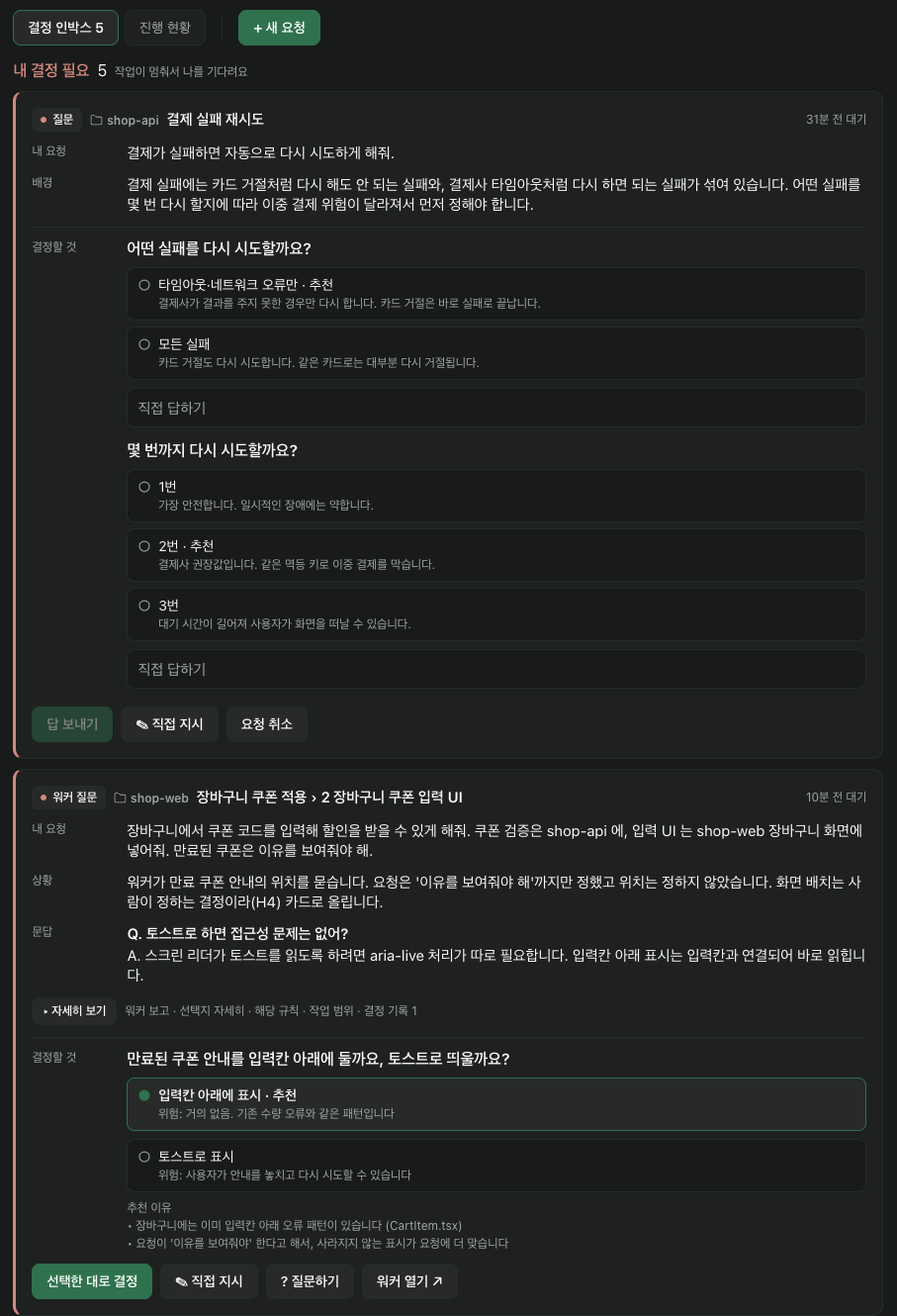
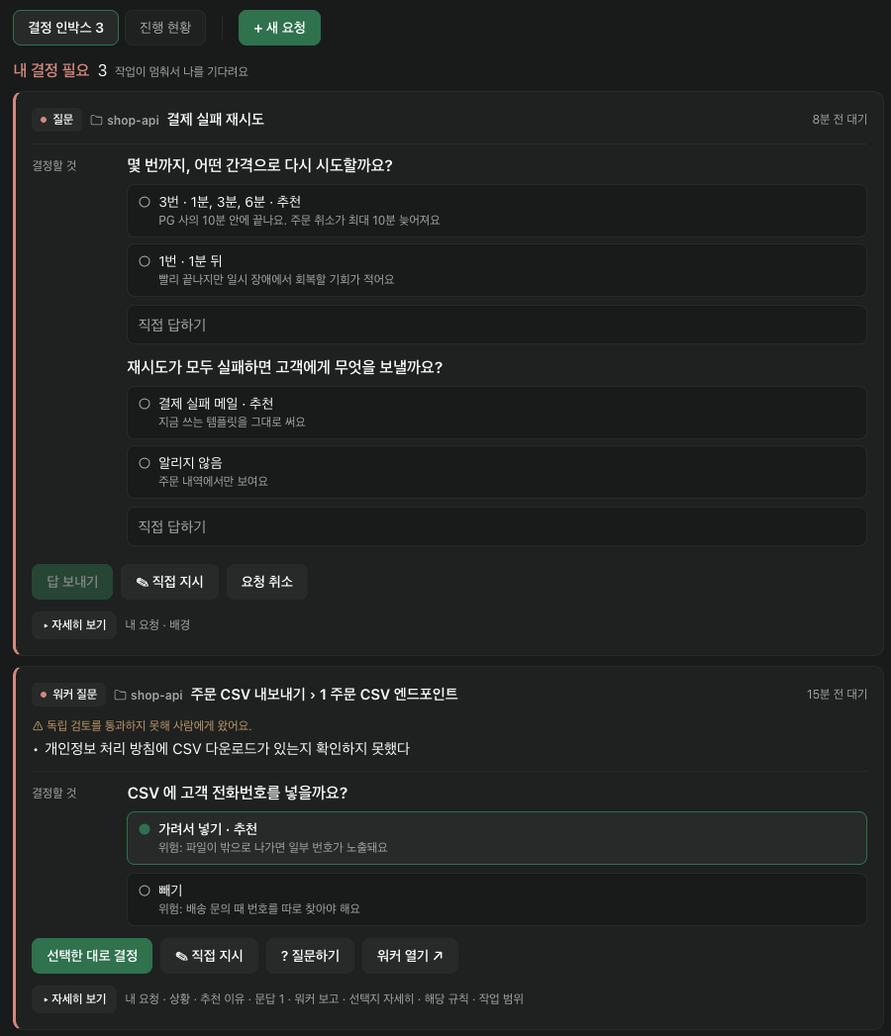
docs: reports, simpler cards and auto mode in every document, with new screenshots
README, OVERVIEW, RULES, DESIGN and PLAN now describe the one report per
request, the cards that show only the decision, approvals that count only
the question and its options, and every agent in auto mode. The inbox,
worker question and progress board screenshots are retaken with demo
projects; merge-card.png is replaced by report-card.png, since merge cards
now live inside the report.

Changed region(s): [[0.0311, 0.5196, 0.9644, 1.0], [0.0, 0.0, 0.9644, 0.2751], [0.1244, 0.3056, 0.4978, 0.5196]]

diff --git a/README.md b/README.md
@@ -6,7 +6,7 @@ A [Paseo](https://paseo.sh) plugin that keeps you from becoming the bottleneck w
 
 ![Progress board: one row per request with its grade and projects, and task cards in columns ordered by how much they wait on you](assets/progress-board.png)
 
-*Progress board. Each request is a row; its tasks sit in the column that says who they are waiting on: you now, you later (to review), the coordinator and its reviewers, a worker, or nothing yet. Agents you launched yourself get their own rows below. Each task shows its branch and worktree path.*
+*Progress board. Each request is a row; its tasks sit in the column that says who they are waiting on: you now, the coordinator and its reviewers, a worker, or nothing yet. A finished task leaves the columns, and when the whole request has nothing left to run its report shows up in "Needs my decision" or "To review". Agents you launched yourself get their own rows below. Each task shows its branch and worktree path.*
 
 ## How it works
 
@@ -14,59 +14,64 @@ A [Paseo](https://paseo.sh) plugin that keeps you from becoming the bottleneck w
 You write a request
   → Coordinator agent reads it and the allowed projects
       ├─ answers questions about the code directly
-      ├─ asks you when the request can be read more than one way
+      ├─ asks everything it needs from you once, on one question card, before it starts
       ├─ investigates first when it must; the report comes back to the coordinator,
       │     which asks you what to change (grade A) or plans it (grades B–D)
-      └─ splits a change into tasks, grades it A (high risk) to D (simple), and starts workers
+      └─ splits a change into tasks, grades it A (high risk) to D (simple), and starts workers right away
   → Each worker runs in its own git worktree and branch, or in a workspace of yours that you chose
       ├─ needs a decision → report_blocker
       │     ├─ settled by your request or the repo's conventions → coordinator proposes an answer,
-      │     │     2–3 fresh read-only reviewer agents check it, all must pass → sent to the worker
+      │     │     2–3 fresh reviewer agents that cannot edit files check it, all must pass → sent to the worker
       │     └─ otherwise → a decision card for you
       ├─ code task done → verifies and commits; in a new worktree it also pushes and opens a pull request; report_done
       └─ operation task done → acted only on the targets you approved, report_done (no pull request)
-  → Merge card: you squash-merge exactly what the card shows; the plugin deletes the branch and archives the workspace
-  → Committed in your own workspace, or finished with nothing left behind: a card to review later
+  → Nothing left to run → one report for the whole request
+      ├─ pull requests to merge → you squash-merge each from the report, exactly the commit it shows;
+      │     the plugin deletes the branch and archives the workspace
+      └─ nothing to merge → "Finish" closes the request and cleans up
 ```
 
 A request that asks for a change never ends as just a report:
 
 - **Investigations come back.** When a change needs an investigation first, its report goes back to the coordinator instead of becoming an answer you confirm and close. The same happens when you write to a request while its investigation runs.
 - **Grade A waits for you.** The real change starts only after you answer a question card written from the investigation.
-- **Operation tasks.** Work outside a worktree, such as deleting branches or worktrees, deleting a remote branch or running an app, lists exactly what it touches. It starts only after you answer a question card that shows that list, and after the work it depends on is settled: its pull request merged or its card closed.
-- **Instructions while it runs.** Send them from the start card or the request on the progress board. The coordinator passes them to the workers, adds tasks or drops unfinished ones, and asks you first when they go beyond the request.
+- **Operation tasks.** Work outside a worktree, such as deleting branches or worktrees, deleting a remote branch or running an app, lists exactly what it touches. It starts only after you answer a question card whose questions or options show that list, and after the work it depends on is settled: its pull request merged or its report item closed. Until then the report shows that it starts after the merge.
+- **Instructions while it runs.** Send them from the request on the progress board or from its report. The coordinator passes them to the workers, adds tasks or drops unfinished ones, and asks you first when they go beyond the request.
 - **Automatic answers.** They stop for a rule for the rest of a request after you revert one, and everywhere after you revert two of its last ten. You can switch them off in settings.
 
 ## Decision inbox
 
-| Needs my decision (work is waiting on you) | To review (work continues) |
+The coordinator asks what it needs once, before it starts, and tells you once, when nothing is left to run. Starting a request, each finished task and each automatic decision no longer get a card of their own.
+
+| Needs my decision (work is waiting on you) | To review (finished work) |
 | --- | --- |
-| Questions from the coordinator, including approving operation tasks | Requests the coordinator started on its own |
-| Worker questions that need a person | Answers to read-only requests |
-| Answers that failed independent review | Decisions made automatically after review |
-| Pull requests to merge, and finished work left outside a pull request | Tasks that finished without a pull request and left nothing behind, or committed in your workspace |
-| Stopped tasks (restart or cancel), a stopped coordinator, permission requests | Results of agents you launched yourself |
+| Questions from the coordinator, including approving operation tasks | Answers to read-only requests |
+| Worker questions that need a person, and answers that failed independent review | Reports with nothing to decide: every task finished without a pull request, or committed in your workspace |
+| Reports with pull requests to merge or work left outside a pull request | |
+| Stopped tasks (restart or cancel), a stopped coordinator, permission requests | |
 
-The sidebar badge counts only the left column. Buttons say what they do: "End with this answer" closes a read request, "Seen, keep going" leaves a started request running, and "Finish · clean up" closes a task without a pull request. "Mark all reviewed" handles the right column in one go but skips answers, because confirming an answer ends its request, and cards with work left or an unanswered question. Canceling a request asks first, and is refused while finished work still waits on a decision card. If the coordinator itself stops (it cannot be reached, or keeps ignoring what it was sent), a "Coordinator stopped" card shows why and lets you try again.
+A report shows up when the request has nothing left to run: no worker working, no blocked task, no task about to start, no open question. It lists the result of every task, what is left for you (pull requests to merge, commits in your workspace, tasks that start after a merge, work the workers left), what the agents decided on their own (worker choices and automatic answers, which you can still revert), and, folded, the verification and the plan. Each pull request to merge sits inside the report with its own merge card. "Finish" closes the rest in one go.
 
-<p>
-  <img src="assets/inbox-needs-reaction.png" alt="Needs my decision: a coordinator question card with your request, the background and two questions with a recommended option each, followed by a worker question card" width="49%">
-  <img src="assets/inbox-to-review.png" alt="To review: an automatic decision card with its rule and three passing reviewers, an answer card for a read-only request, and a started-request card with the plan, each with its details folded" width="49%">
-</p>
-
-Every card reads top to bottom: your request and what is happening, anything to check (reviewer objections, assumptions, work left), then the decision with its options and buttons. The decision is the actual question, with the recommended option marked and a one-line risk for each option. Evidence such as the worker's full report, verification, choices the worker made and how to undo each option sits under **Details**, folded, with the names of its sections next to the button. You can pick the recommendation, write your own instruction, or ask the coordinator first; the questions and answers stay in the task's decision record.
+The sidebar badge counts only the left column. Buttons say what they do: "End with this answer" closes a read request, "Finish" closes a report. Canceling a request asks first, and is refused while finished work still waits on a decision card. If the coordinator itself stops (it cannot be reached, or keeps ignoring what it was sent), a "Coordinator stopped" card shows why and lets you try again.
 
 <p>
-  <img src="assets/worker-question-card.png" alt="Worker question card: your request, the situation, a question already answered by the coordinator, folded details, then the worker's question with options, their risks and the reasons for the recommendation" width="49%">
-  <img src="assets/merge-card.png" alt="Merge card: your request, the worker's report, work left, the pull request with its size and checks, folded verification and choices, and a squash-merge button" width="49%">
+  <img src="assets/inbox-needs-reaction.png" alt="Needs my decision: a coordinator question card with two questions and a recommended option each, then a worker question card with a reviewer objection, each with its buttons and folded details" width="49%">
+  <img src="assets/inbox-to-review.png" alt="To review: a report with nothing to decide and a Finish button, and an answer card for a read-only request" width="49%">
 </p>
 
-*Left: a worker question that needs a person, with a question you already asked the coordinator. Right: a finished task waiting for you to merge its pull request.*
+A card shows only what to decide and its buttons: the actual question, its options with the recommended one marked and a one-line risk each. Everything else (your request, the situation, the worker's report, verification, the worker's choices, how to undo each option) sits under **Details**, folded, with the names of its sections next to the button. Warnings you must not miss stay outside: reviewer objections, pull request conflicts or failing checks, work left outside a pull request. So do an answer's text, the command a permission request would run, and the targets of an operation you approve. You can pick the recommendation, write your own instruction, or ask the coordinator first; the questions and answers stay in the task's decision record.
+
+<p>
+  <img src="assets/worker-question-card.png" alt="Worker question card: the reviewer objection that sent it to you, the worker's question with two options and their risks, the buttons, and folded details" width="49%">
+  <img src="assets/report-card.png" alt="Report: two tasks finished and two pull requests to merge, what is left for you, a merge card for each pull request (one with a failing check warning), and Finish the rest" width="49%">
+</p>
+
+*Left: a worker question that independent review sent to you. Right: a request's report with two pull requests to merge; one has a failing check, so its warning stays outside the folded details.*
 
 ## Requirements
 
 - Paseo 0.17.4 or later with plugins enabled. Tested on macOS.
-- A provider for the coordinator and workers. Reviewers need a provider with a read-only mode; today that is Claude (plan mode), at high effort or above.
+- A provider for the coordinator and workers. Every agent runs in auto mode. Reviewers need a provider that also has a read-only mode (today Claude); their editing tools are removed and they run at high effort or above.
 - The GitHub CLI (`gh`), installed and signed in, and a GitHub remote on each project. The plugin uses it to find the task branch's pull request, merge it when you press merge, and delete the branch.
 - Optional: the pstack Claude plugin. Grade A, B and C change workers then start with `/poteto-mode`. You can turn this off in settings.
 
@@ -97,13 +102,13 @@ Then press **+ New request**, describe what you want, and optionally pick projec
 For each project you pick, choose where workers work:
 
 - **New worktree · new branch** (default). Each task gets its own worktree and a new branch. The branch starts from the branch the coordinator picks when the request builds on unmerged work, otherwise the per-project base in settings, otherwise the remote default branch. To start from a particular branch, say so in the request. Workers open pull requests against that base.
-- **One of your open workspaces.** Workers continue there in a new session, on the branch checked out there. Code tasks only commit; you push and merge that branch your own way. A task waits while the workspace has uncommitted changes, another agent works in it, or another unfinished task still uses it. Closing the card closes only the worker's session.
+- **One of your open workspaces.** Workers continue there in a new session, on the branch checked out there. Code tasks only commit; you push and merge that branch your own way. A task waits while the workspace has uncommitted changes, another agent works in it, or another unfinished task still uses it. Finishing it from the report closes only the worker's session.
 
-The coordinator can also propose one of your workspaces, but only after you approve its directory on a question card, and never one on the default branch for code tasks.
+The coordinator can also propose one of your workspaces, but only after you approve its directory, written in a question or option of a question card, and never one on the default branch for code tasks.
 
 <img src="assets/new-request.png" alt="New request panel: a text box for the request, project choices limited to the allowed projects, and an optional done criterion" width="60%">
 
-Change workers run in Claude auto mode, so your Claude permission rules still decide which commands ask you. Add `ask` rules for anything you want to see first, such as `Bash(gh pr merge *)`. Code workers are told never to merge, deploy, write to databases or push to other branches, and to report such needs instead; operation workers may act outside their worktree only on the targets you approved. Worker commands do not pass through the plugin, so those rules and your permission rules are what stop a command.
+Every agent runs in Claude auto mode: the coordinator, workers (investigations included) and reviewers. The coordinator has every built-in tool that reads, edits or runs commands removed, and works only through its own tools; reviewers have the editing tools removed. Your Claude permission rules still decide which worker commands ask you. Add `ask` rules for anything you want to see first, such as `Bash(gh pr merge *)`. Code workers are told never to merge, deploy, write to databases or push to other branches, and to report such needs instead; operation workers may act outside their worktree only on the targets you approved. Worker commands do not pass through the plugin, so those rules and your permission rules are what stop a command.
 
 ## What it stores and reads
 
@@ -124,7 +129,7 @@ paseo plugin install /absolute/path/to/paseo-coordinator
 paseo plugin reload paseo-coordinator   # after each change
 ```
 
-The plugin has no build step and no runtime dependencies beyond what Paseo provides. `npm test` runs the server code against a fake Paseo API and temporary git repositories: review failures and timeouts, auto-stop, races between hooks and the reconcile pass, dispatch during cancel, merge-card flows, investigations returning to the coordinator, the grade A, operation-task and existing-workspace gates, adding and canceling tasks, honest reverts, replaying a report whose tool call failed, coordinator stalls, base branches, and merging only what the card showed (with a fake `gh`).
+The plugin has no build step and no runtime dependencies beyond what Paseo provides. `npm test` runs the server code against a fake Paseo API and temporary git repositories: review failures and timeouts, auto-stop, races between hooks and the reconcile pass, dispatch during cancel, merge-card flows, investigations returning to the coordinator, when a request's report appears, the grade A, operation-task and existing-workspace gates (targets must be in a question or option, not only the folded background), the tools removed from the coordinator and reviewers, adding and canceling tasks, honest reverts, replaying a report whose tool call failed, coordinator stalls, base branches, and merging only what the card showed (with a fake `gh`).
 
 ## Documents
 

diff --git a/OVERVIEW.ko.md b/OVERVIEW.ko.md
@@ -3,23 +3,24 @@ Coordinator 는 글로 쓴 요청 하나를 여러 프로젝트의 코딩 에이
 ## 동작 방식
 
 1. 요청을 쓰고, 필요하면 프로젝트를 고릅니다.
-2. 코디네이터 에이전트가 요청과 허용된 프로젝트를 읽습니다. 코드에 관한 질문은 직접 답하고, 요청을 두 가지 이상으로 읽을 수 있으면 사람에게 묻고, 변경 요청은 작업으로 나누어 A(고위험)부터 D(간단)까지 등급을 매깁니다.
+2. 코디네이터 에이전트가 요청과 허용된 프로젝트를 읽습니다. 코드에 관한 질문은 직접 답하고, 사람에게 물을 것은 시작 전에 질문 카드 하나로 모아 묻고, 변경 요청은 작업으로 나누어 A(고위험)부터 D(간단)까지 등급을 매긴 뒤 바로 시작합니다.
 3. 작업마다 별도의 git worktree 와 브랜치에서, 또는 사람이 고른 내 워크스페이스 안의 새 세션에서 워커 에이전트가 일합니다. 결정이 필요한 워커는 채팅으로 묻지 않고 도구로 보고합니다.
-4. 요청이나 저장소 관례로 답이 이미 정해져 있으면 코디네이터가 답을 제안하고, 새로 띄운 검토 에이전트 2~3명이 따로 확인합니다. 검토자 전원이 통과시켜야 워커에게 답이 가고, 사람은 나중에 확인하거나 되돌릴 수 있습니다. 나머지는 사람의 카드가 됩니다.
+4. 요청이나 저장소 관례로 답이 이미 정해져 있으면 코디네이터가 답을 제안하고, 새로 띄운 검토 에이전트 2~3명이 따로 확인합니다. 검토자 전원이 통과시켜야 워커에게 답이 가고, 그 답은 완료 보고서에 남아 사람이 되돌릴 수 있습니다. 나머지는 사람의 카드가 됩니다.
 5. 바꾸기 전에 조사가 필요하면 조사 보고는 답변으로 끝나지 않고 코디네이터에게 돌아갑니다. A 등급이면 무엇을 바꿀지 사람에게 묻습니다. worktree 밖의 일(브랜치·worktree 삭제, 원격 브랜치 삭제, 앱 실행)은 운영 작업으로, 건드릴 대상을 모두 적고 사람이 그 목록을 승인한 뒤에만 시작합니다. 요청이 도는 동안 보낸 지시는 워커에게 전해지거나 작업 추가·취소가 됩니다.
-6. 새 worktree 의 워커는 검증하고, 브랜치를 push 하고, PR 을 열어 작업을 끝냅니다. 사람은 보고, 워커가 스스로 고른 것, PR 이 담긴 머지 카드를 받습니다. 카드에서 머지하면 카드가 보여 준 커밋 그대로 squash 머지하고, 브랜치를 지우고, 워크스페이스를 archive 합니다. 내 워크스페이스에서는 커밋까지만 하고, 카드를 닫으면 워커 세션만 닫습니다. 결과에 대해 코디네이터에게 묻거나, 고칠 것을 워커에게 돌려보낼 수도 있습니다.
+6. 새 worktree 의 워커는 검증하고, 브랜치를 push 하고, PR 을 열어 작업을 끝냅니다. 요청에서 더 진행할 일이 없어지면 사람은 PR 마다 머지 카드가 들어 있는 완료 보고서 하나를 받습니다. 워커의 보고와 워커가 스스로 고른 것도 함께 보입니다. 머지하면 카드가 보여 준 커밋 그대로 squash 머지하고, 브랜치를 지우고, 워크스페이스를 archive 합니다. 내 워크스페이스에서는 커밋까지만 하고, 보고서를 끝내면 워커 세션만 닫습니다. 결과에 대해 코디네이터에게 묻거나, 고칠 것을 워커에게 돌려보낼 수도 있습니다.
 
 ## 인박스
 
-- 내 결정 필요: 코디네이터의 질문(운영 작업 승인 포함), 사람이 정해야 하는 워커 질문, 검토를 통과하지 못한 결정, 머지할 PR, PR 에 담기지 않고 남은 변경, 멈춘 작업, 멈춘 코디네이터, 에이전트의 권한 요청, 직접 띄운 에이전트의 질문과 에러. 사이드바 숫자는 이것만 셉니다.
-- 확인 필요: 코디네이터가 스스로 시작한 요청, 읽기 요청의 답변, 검토를 거쳐 자동으로 처리한 결정, PR 도 남은 변경도 없이 끝났거나 내 워크스페이스에 커밋하고 끝난 작업, 직접 띄운 에이전트의 결과. `모두 확인`은 답변과, 남은 일이나 답을 기다리는 질문이 있는 카드를 빼고 한 번에 닫습니다. 답변을 확인하면 요청이 끝나기 때문입니다.
+- 내 결정 필요: 코디네이터의 질문(운영 작업 승인 포함), 사람이 정해야 하는 워커 질문, 검토를 통과하지 못한 결정, 머지할 PR 이나 PR 에 담기지 않은 변경이 남은 완료 보고서, 멈춘 작업, 멈춘 코디네이터, 에이전트의 권한 요청, 직접 띄운 에이전트의 질문과 에러. 사이드바 숫자는 이것만 셉니다.
+- 확인 필요: 읽기 요청의 답변, 결정할 것이 없는 완료 보고서.
+- 코디네이터는 필요한 질문을 시작 전에 한 번 묻습니다. 요청에서 더 진행할 일이 없어지면 완료 보고서 하나를 받습니다. 작업별 결과, 내가 할 일(머지할 PR 은 보고서 안에 있습니다), 에이전트가 스스로 정한 것, 계획이 들어 있습니다. 시작, 작업마다의 완료, 자동 결정은 따로 카드로 뜨지 않습니다.
 
-모든 카드는 위에서 아래로 읽습니다. 내 요청과 지금 상황, 확인할 것(검토자 반대 의견, 가정, 남은 일), 그리고 결정할 것과 버튼 순서입니다. 결정할 것에는 실제 질문과 선택지가 있고, 추천 선택지와 선택지마다 위험 한 줄이 붙습니다. 워커 보고 전문, 검증, 워커가 고른 것, 선택지별 되돌리는 법 같은 근거는 `자세히 보기`에 접혀 있고, 버튼 옆에 들어 있는 구역 이름이 보입니다.
+카드에는 정할 것과 버튼만 보입니다. 실제 질문과 선택지가 있고, 추천 선택지와 선택지마다 위험 한 줄이 붙습니다. 내 요청, 상황, 워커 보고, 검증, 선택지별 되돌리는 법은 `자세히 보기`에 접혀 있습니다. 보지 않고 누르면 안 되는 경고(검토자 반대 의견, PR 충돌·체크 실패, PR 에 없는 변경), 답변 본문, 권한 요청의 명령, 운영 작업 대상은 밖에 둡니다.
 
 ## 설정
 
 - 설정은 Coordinator 화면에 있습니다. 코디네이터가 쓸 수 있는 프로젝트를 고릅니다. 하나도 고르지 않으면 워커를 띄우지 않습니다.
-- 코디네이터, 워커, 검토자의 모델과 thinking effort 를 고릅니다. 검토자는 읽기 전용으로 돌아야 해서 읽기 전용 모드가 있는 provider(지금은 Claude 의 plan 모드)만, effort high 이상으로 고를 수 있습니다.
+- 코디네이터, 워커, 검토자의 모델과 thinking effort 를 고릅니다. 모든 에이전트는 auto 모드로 돕니다. 검토자는 워커의 코드를 바꾸면 안 돼서 읽기 전용 모드도 있는 provider(지금은 Claude)만 고를 수 있고, 쓰기 도구를 뺀 채 effort high 이상으로 돕니다.
 - 기본으로 작업마다 기준 브랜치에서 딴 새 worktree 와 새 브랜치에서 일하고, PR 도 그 기준을 대상으로 엽니다. 기준 브랜치는 아직 머지되지 않은 작업 위의 요청이면 코디네이터가 고른 브랜치, 설정의 프로젝트별 기준 브랜치, 원격 기본 브랜치(`origin/HEAD`) 순서로 정합니다. 특정 브랜치에서 시작해야 하면 요청 글에 적습니다. 같은 프로젝트의 앞 작업에 기대는 작업은 그 worktree 와 브랜치를 이어 쓰고, 마지막 작업만 PR 을 엽니다. 로컬 브랜치가 원격보다 뒤처져 있으면 원격 최신에서 땁니다. 내 컴퓨터에만 있는 브랜치를 기준으로 하면 PR 을 열 수 없어서, 워커는 자기 브랜치에 커밋만 하고 카드는 worktree 를 남겨 로컬에서 머지할 수 있게 합니다.
 - 새 worktree 대신 새 요청 창에서 프로젝트마다 내 워크스페이스를 고르거나, 코디네이터가 제안한 워크스페이스를 질문 카드에서 승인할 수 있습니다. 그러면 워커가 그 워크스페이스에서 새 세션으로, 거기 checkout 된 브랜치에서 일합니다. 커밋까지만 하고 push 와 PR 은 하지 않으며, 커밋하지 않은 변경이 있거나, 다른 에이전트가 일하거나, 그 워크스페이스를 쓰는 다른 작업이 끝나지 않았으면 기다립니다. 코디네이터가 제안한 워크스페이스가 기본 브랜치면 코드 작업을 맡기지 않습니다. 플러그인은 그 워크스페이스를 archive 하지 않고 브랜치도 지우지 않습니다.
 - PR 조회와 머지는 GitHub CLI 를 씁니다. `gh` 가 설치되어 로그인되어 있어야 하고, 프로젝트에 GitHub remote 가 있어야 합니다.
@@ -28,9 +29,9 @@ Coordinator 는 글로 쓴 요청 하나를 여러 프로젝트의 코딩 에이
 ## 읽는 것, 실행하는 것, 보내는 것
 
 - 요청, 계획, 결정, 카드 기록은 호스트의 Paseo 홈 폴더 아래 `plugin-data/paseo-coordinator/state.json` 에 저장됩니다.
-- 코디네이터는 허용된 프로젝트 안의 파일만 읽고, `.env`, 키, credential 같은 비밀 파일은 건너뜁니다.
+- 코디네이터는 허용된 프로젝트 안의 파일만 자기 도구로 읽고, `.env`, 키, credential 같은 비밀 파일은 건너뜁니다. 내장 파일·검색·셸 도구는 빠져 있습니다.
 - 모든 에이전트는 사용자의 provider 와 계정으로 돌아서 요청마다 모델 사용량과 토큰이 듭니다. 자동 결정 한 번마다 검토 에이전트 2~3명이 더 돕니다.
-- 변경 작업 워커는 Claude auto 모드로 돕니다. 사용자의 Claude 권한 규칙은 그대로 적용되므로, 직접 보고 싶은 명령(예: `gh pr merge`)은 `ask` 규칙으로 추가하세요. 코드 작업 워커에게는 머지, 배포, DB 쓰기, 다른 브랜치로 push 를 하지 말고 필요하면 보고하라고 지시합니다. 운영 작업 워커는 사람이 승인한 대상(적어 둔 브랜치 삭제, 적어 둔 원격 브랜치 삭제 등)에 한해서만 worktree 밖에서 일합니다.
+- 모든 에이전트는 Claude auto 모드로 돕니다. 워커에는 사용자의 Claude 권한 규칙이 그대로 적용되므로, 직접 보고 싶은 명령(예: `gh pr merge`)은 `ask` 규칙으로 추가하세요. 코드 작업 워커에게는 머지, 배포, DB 쓰기, 다른 브랜치로 push 를 하지 말고 필요하면 보고하라고 지시합니다. 운영 작업 워커는 사람이 승인한 대상(적어 둔 브랜치 삭제, 적어 둔 원격 브랜치 삭제 등)에 한해서만 worktree 밖에서 일합니다.
 - 플러그인은 답변을 확인했거나 계획이 조사를 대신하면 조사 워크스페이스를 archive 하고, 작업을 닫을 때 그 로컬 브랜치의 커밋이 모두 원격에 있을 때만 브랜치를 지웁니다.
 - 플러그인은 `gh` 로 작업 브랜치의 PR 을 읽고, 머지 버튼을 누르면 머지하고, 그 뒤 그 브랜치를 지울 때만 GitHub 를 부릅니다.
 
@@ -39,8 +40,10 @@ Coordinator 는 글로 쓴 요청 하나를 여러 프로젝트의 코딩 에이
 - macOS, Paseo 0.17.4 에서 확인했습니다.
 - A 등급 변경과 운영 작업은 항상 사람의 답을 기다립니다. 한 요청에서 자동 결정을 되돌리면 그 요청이 끝날 때까지 같은 규칙을 쓰지 않고, 한 규칙의 최근 자동 결정 10건 중 2건을 되돌리면 그 규칙의 자동 처리가 멈춥니다. 설정에서 자동 답변을 끌 수도 있습니다.
 - 요청이 질문인지 변경인지는 코디네이터가 판단합니다. 변경을 위한 조사로 계획한 뒤에는 플러그인이 답변으로 끝나지 않게 막습니다. 답변 카드 버튼은 `이 답으로 끝내기`라서 읽기 요청이 모르게 닫히지 않습니다.
-- 운영 작업과 코디네이터가 제안한 워크스페이스는, 사람이 답한 질문에 대상이나 워크스페이스 경로가 그대로 적혀 있었는지를 플러그인이 확인합니다. 그 답이 승인인지는 코디네이터가 읽고 판단합니다.
+- 운영 작업과 코디네이터가 제안한 워크스페이스는, 사람이 답한 질문이나 선택지에 대상이나 워크스페이스 경로가 그대로 적혀 있었는지를 플러그인이 확인합니다. 배경은 카드에서 접혀 있어 세지 않습니다. 그 답이 승인인지는 코디네이터가 읽고 판단합니다.
+- 조사 워커는 auto 모드라 읽기 전용은 지시문이 지킵니다. 조사 워커가 worktree 에 변경을 남기면 답변에 그 사실이 적히고 worktree 는 남겨 둡니다.
+- Paseo 0.17.4 에는 플러그인이 알림을 보내는 기능이 없어, 새 완료 보고서는 사이드바 숫자로만 알 수 있습니다.
 - 워커의 명령은 플러그인을 거치지 않습니다. 위험한 명령은 워커 지시문과 사용자의 Claude 권한 규칙이 막습니다.
-- 작업을 취소해도 그 작업이 이미 연 PR 은 GitHub 에 열린 채 남습니다. 끝난 결과가 결정 카드를 기다리는 요청은 그 카드를 정하기 전에는 취소할 수 없습니다.
+- 작업을 취소해도 그 작업이 이미 연 PR 은 GitHub 에 열린 채 남습니다. 끝난 결과가 사람의 결정을 기다리는 요청은 그 결정을 하기 전에는 취소할 수 없습니다.
 - 백그라운드 작업(빌드 등)을 기다리는 워커는 30분까지 기다립니다. 그보다 긴 빌드는 재촉을 받고, 보고할 때까지 멈춤으로 보일 수 있습니다.
 - 테스트는 가짜 Paseo API 로 돕니다. Paseo 동작 두 가지는 확인하지 않고 가정했습니다: 에러로 끝난 코디네이터가 새 메시지를 받으면 다시 일한다는 것, 워크스페이스를 archive 하면 worktree 가 지워진다는 것.

diff --git a/OVERVIEW.md b/OVERVIEW.md
@@ -3,23 +3,24 @@ Coordinator turns one written request into work done by coding agents across you
 ## How it works
 
 1. You write a request and optionally pick projects.
-2. A coordinator agent reads the request and the allowed projects. It answers questions about the code directly, asks you when the request can be read more than one way, or splits a change into tasks and grades it from A (high risk) to D (simple).
+2. A coordinator agent reads the request and the allowed projects. It answers questions about the code directly, asks everything it needs from you once on a single question card before it starts, or splits a change into tasks, grades it from A (high risk) to D (simple) and starts workers right away.
 3. Each task gets a worker agent in its own git worktree and branch, or, when you choose one of your workspaces, in a new session there. Workers that need a decision report it with a tool instead of asking in chat.
-4. When the answer is already settled by your request or the repository's conventions, the coordinator proposes it and two or three fresh reviewer agents check it independently. The answer goes to the worker only if every reviewer passes it; you can review and revert it later. Anything else becomes a card for you.
+4. When the answer is already settled by your request or the repository's conventions, the coordinator proposes it and two or three fresh reviewer agents check it independently. The answer goes to the worker only if every reviewer passes it; it is listed in the request's report, where you can still revert it. Anything else becomes a card for you.
 5. When a change needs an investigation first, the report goes back to the coordinator instead of ending as an answer; for grade A it asks you which changes to make. Work outside a worktree (deleting branches or worktrees, deleting a remote branch, running an app) is an operation task that lists exactly what it touches and starts only after you approve the list. Instructions you send while a request runs reach its workers, or become added or dropped tasks.
-6. A worker in a new worktree finishes by verifying its work, pushing its branch and opening a pull request. You get a merge card with the report, the choices the worker made on its own and the pull request. Merging from the card squash-merges exactly the commit the card shows, deletes the branch and archives the workspace. In your own workspace a worker only commits; closing its card closes only the worker's session. You can also ask the coordinator about the result or send the worker back with changes.
+6. A worker in a new worktree finishes by verifying its work, pushing its branch and opening a pull request. When the request has nothing left to run you get one report with a merge card for each pull request, the workers' reports and the choices they made on their own. Merging squash-merges exactly the commit the card shows, deletes the branch and archives the workspace. In your own workspace a worker only commits; finishing the report closes only the worker's session. You can also ask the coordinator about a result or send the worker back with changes.
 
 ## Inbox
 
-- Needs my decision: questions from the coordinator (including approving operation tasks), worker questions that need you, failed reviews, pull requests to merge, finished work left outside a pull request, stopped tasks, a stopped coordinator, permission requests from agents, and questions and errors from agents you launched yourself. The sidebar badge counts only these.
-- To review: requests the coordinator started on its own, answers to read-only requests, decisions made automatically after review, tasks that finished without a pull request and left nothing behind or committed in your workspace, and results of agents you launched yourself. "Mark all reviewed" closes these except answers, because confirming an answer ends its request, and cards with work left or an unanswered question.
+- Needs my decision: questions from the coordinator (including approving operation tasks), worker questions that need you, failed reviews, reports with pull requests to merge or work left outside a pull request, stopped tasks, a stopped coordinator, permission requests from agents, and questions and errors from agents you launched yourself. The sidebar badge counts only these.
+- To review: answers to read-only requests, and reports with nothing to decide.
+- The coordinator asks what it needs once, before it starts. When a request has nothing left to run you get one report: the result of every task, what is left for you (pull requests to merge sit inside it), what the agents decided on their own, and the plan. Starting a request, each finished task and each automatic decision no longer get a card of their own.
 
-Every card reads top to bottom: your request and what is happening, anything to check (reviewer objections, assumptions, work left), then the decision and its buttons. The decision is the actual question, with the recommended option marked and a one-line risk for each option. Evidence such as the worker's full report, verification, choices the worker made and how to undo each option is folded under **Details**, with the names of its sections next to the button.
+A card shows only what to decide and its buttons: the question, its options with the recommended one marked and a one-line risk each. Your request, the situation, reports, verification and how to undo each option are folded under **Details**. Warnings (reviewer objections, pull request conflicts or failing checks, work left outside a pull request), an answer's text, a permission's command and an operation's targets stay outside.
 
 ## Setup
 
 - Settings live on the Coordinator screen. Choose the projects the coordinator may use; with none selected it starts no workers.
-- Pick the model and thinking effort for the coordinator, the workers and the reviewers. Reviewers must run read-only, so only providers with a read-only mode are offered (today Claude's plan mode), at high effort or above.
+- Pick the model and thinking effort for the coordinator, the workers and the reviewers. Every agent runs in auto mode. Reviewers must not change the worker's code, so only providers that can also offer a read-only mode are listed (today Claude); their editing tools are removed, and they run at high effort or above.
 - By default each task gets a new worktree and a new branch cut from a base branch, and opens its pull request against that base. The base is, in order: the branch the coordinator picks when the request builds on unmerged work, the base branch set per project in settings, then the remote default branch (`origin/HEAD`). To start from a particular branch, say so in the request. A task that depends on an earlier task in the same project continues in that task's worktree and branch, and only the last one opens the pull request. When the local branch is behind origin, the fresh remote tip is used. A base that exists only on your machine has no pull request: the worker commits on its branch and the card keeps the worktree so you can merge it locally.
 - Instead of a new worktree you can pick one of your open workspaces per project in the new request panel, or approve one the coordinator proposes. Workers then work there in a new session on the branch checked out there, commit without pushing or opening a pull request, and wait while the workspace has uncommitted changes, another agent works in it, or another unfinished task uses it. A workspace the coordinator proposes cannot be on the default branch for code tasks. The plugin never archives that workspace or deletes its branch.
 - Pull request lookup and merging use the GitHub CLI. `gh` must be installed and signed in, and the project needs a GitHub remote.
@@ -28,9 +29,9 @@ Every card reads top to bottom: your request and what is happening, anything to 
 ## What it reads, runs and sends
 
 - Requests, plans, decisions and card history are stored on the host in `plugin-data/paseo-coordinator/state.json` under the Paseo home folder.
-- The coordinator reads files only inside the allowed projects and skips secret files such as `.env`, keys and credentials.
+- The coordinator reads files only inside the allowed projects, through its own tools, and skips secret files such as `.env`, keys and credentials. Its built-in file, search and shell tools are removed.
 - All agents run on your own providers and accounts, so every request uses model time and tokens. Reviews add two or three agents per automatic decision.
-- Change workers run in Claude auto mode. Your Claude permission rules still apply; add `ask` rules for commands you want to see, such as `gh pr merge`. Code workers are told never to merge, deploy, write to databases or push to other branches, and they report those needs to you instead. Operation workers may act outside their worktree only on the targets you approved, such as deleting the listed branches or a listed remote branch.
+- Every agent runs in Claude auto mode. Your Claude permission rules still apply to workers; add `ask` rules for commands you want to see, such as `gh pr merge`. Code workers are told never to merge, deploy, write to databases or push to other branches, and they report those needs to you instead. Operation workers may act outside their worktree only on the targets you approved, such as deleting the listed branches or a listed remote branch.
 - The plugin archives investigation workspaces once their answer is confirmed or a plan replaces them, and deletes a closed task's local branch only when every commit on it is on a remote.
 - The plugin itself calls GitHub through `gh` only to read the task branch's pull request, merge it when you press merge, and delete that branch afterwards.
 
@@ -39,8 +40,10 @@ Every card reads top to bottom: your request and what is happening, anything to 
 - Tested on macOS with Paseo 0.17.4.
 - Grade A changes and operation tasks always wait for your answer. Automatic decisions stop for a rule for the rest of a request after you revert one, and everywhere after you revert two of its last ten; you can switch them off in settings.
 - Whether a request is a question or a change is the coordinator's judgment. Once it plans an investigation for a change, the plugin keeps it from ending as an answer; the answer card's button says "End with this answer" so a read request never closes unnoticed.
-- For operation tasks, and for a workspace the coordinator proposes, the plugin checks that the question you answered showed every target or the workspace directory word for word. Whether your answer approved them is read by the coordinator.
+- For operation tasks, and for a workspace the coordinator proposes, the plugin checks that a question or option you answered showed every target or the workspace directory word for word. The background is folded on the card, so it does not count. Whether your answer approved them is read by the coordinator.
+- Investigation workers run in auto mode, so their read-only rule comes from their instructions. If one leaves changes in its worktree, the answer says so and the worktree is kept.
+- Paseo 0.17.4 cannot send notifications from a plugin, so a new report shows only as the sidebar count.
 - Worker commands do not pass through the plugin. Dangerous commands are stopped by the worker's instructions and your Claude permission rules.
-- Canceling a task leaves a pull request it already opened open on GitHub. A request with finished work waiting on a decision card cannot be canceled until that card is decided.
+- Canceling a task leaves a pull request it already opened open on GitHub. A request with finished work waiting on a decision cannot be canceled until it is decided.
 - A worker waiting on background jobs (for example a build) is given 30 minutes before it is asked to report; a longer build is nudged and may show as stopped until it reports.
 - The tests use a fake Paseo API. Two Paseo behaviors are assumed rather than tested: a coordinator that ended with an error works again when it gets a new message, and archiving a workspace removes its worktree.

diff --git a/PLAN.md b/PLAN.md
@@ -14,6 +14,8 @@
 | 5 차단·기계 허용 (생략) | H `[기계]` 판정, M1~M3, 활동 기록. 워커를 auto 모드로 바꾸면서 명령 판정은 Claude auto 모드와 사용자 deny 목록이 맡는다. 필요한 [기계] 판정(등급 A, 반복, 작업당 자동 결정 수)은 6단계 사전 검사에 넣었다 | 규칙별 명령 예시 표로 판정 테스트. `gh pr merge`, main push가 막히고 워커 브랜치 push가 통과 |
 | 6 독립 검토 (2026-11-26) | W1·W5·W7, 결정 패킷, 검토 에이전트, provider 설정, `확인 필요` 카드, 되돌리기, 자동 정지 | 통과·실패·시간 초과 시나리오마다 결과 확인. 검토 실패가 사람 카드로 감 |
 | 7 poteto 연결 (2026-11-26) | 등급별 킥오프와 덮어쓰기 문단, 완료 = 검증 통과 + PR 생성, PR 머지 카드 | C 등급 요청 하나를 PR 머지 카드까지 끝까지 실행 |
+| 10 카드 간소화와 모두 Auto (2026-11-27) | 카드 밖에는 정할 것과 버튼만, 나머지는 자세히 보기(경고·답변 본문·명령 원문·운영 대상은 예외), 승인 관문은 질문과 선택지만 봄, 코디네이터·검토자도 Auto + `disallowedTools` | `test/modes.test.ts`, 배경에만 있는 대상 거절 테스트. 새 코디네이터·검토자 프로세스 인자에 `--disallowedTools` 확인 |
+| 9 병목 줄이기 (2026-11-27) | 시작 카드·자동 결정 카드·직접 띄운 에이전트 카드를 확인 필요에서 뺌, 요청마다 완료 보고서 하나(`requestReport`), 질문은 시작 전에 한 번(코디네이터 지침), 읽기 조사 워커를 plan 에서 Auto 로, plan 모드 워커의 ExitPlanMode 자동 거절 | `test/report.test.ts`, 읽기 조사 모드 회귀 테스트. 실제 화면에서 보고서 확인 |
 | 8 의도대로 끝나기 (2026-11-26) | 변경 전 조사(`beforeChange`)가 코디네이터로 돌아옴, 실행 중 작업 추가·취소, 운영 작업과 대상 승인, 정직한 되돌리기와 완료 표시, 실패한 보고 다시 처리, 코디네이터 멈춤 카드, 조사 정리, 인박스 이름 `내 결정 필요 / 확인 필요` 통일 | 전수 검사에서 찾은 경로마다 회귀 테스트(`test/fixes.test.ts`). 독립 검사 3회로 원래 항목 0~20·조정 a~c 확인. r15 삭제 요청이 조사 → 질문 → 답 → 삭제까지 실제로 끝남 |
 
 ## 지키는 것
